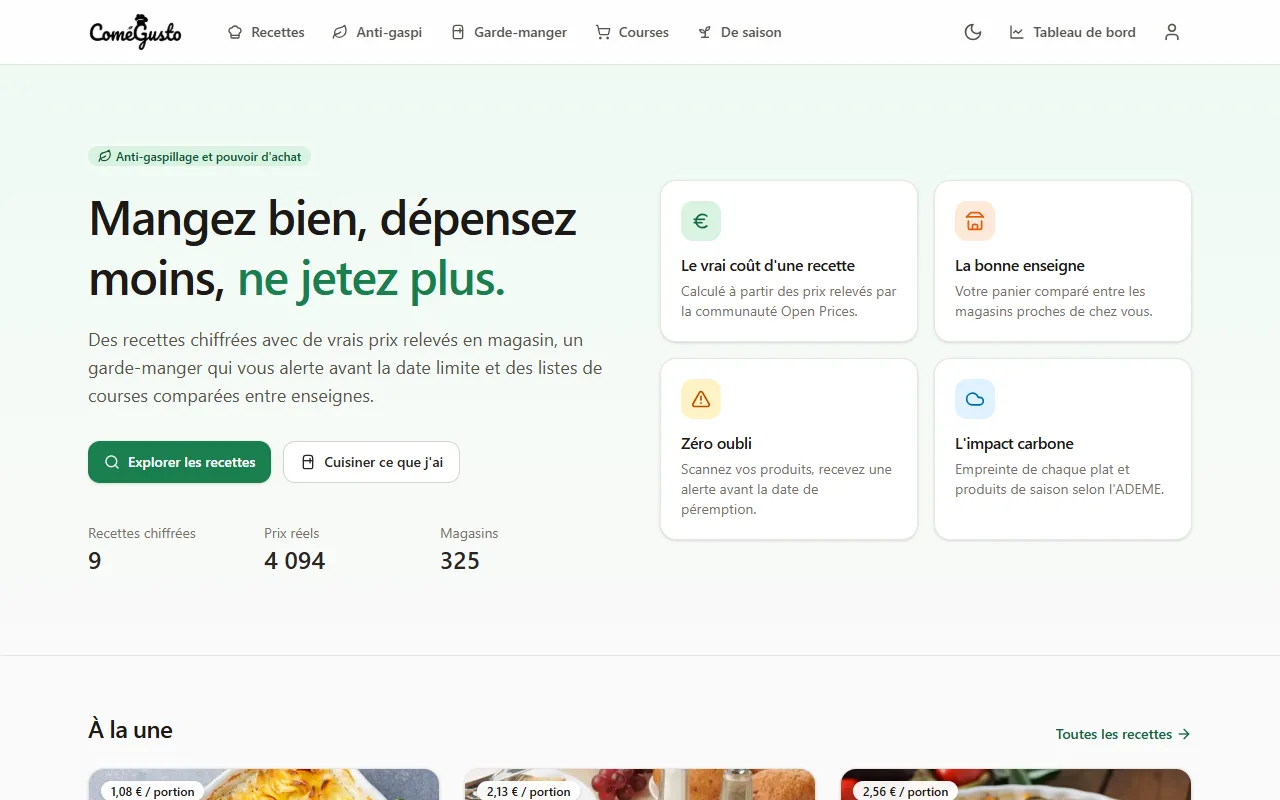
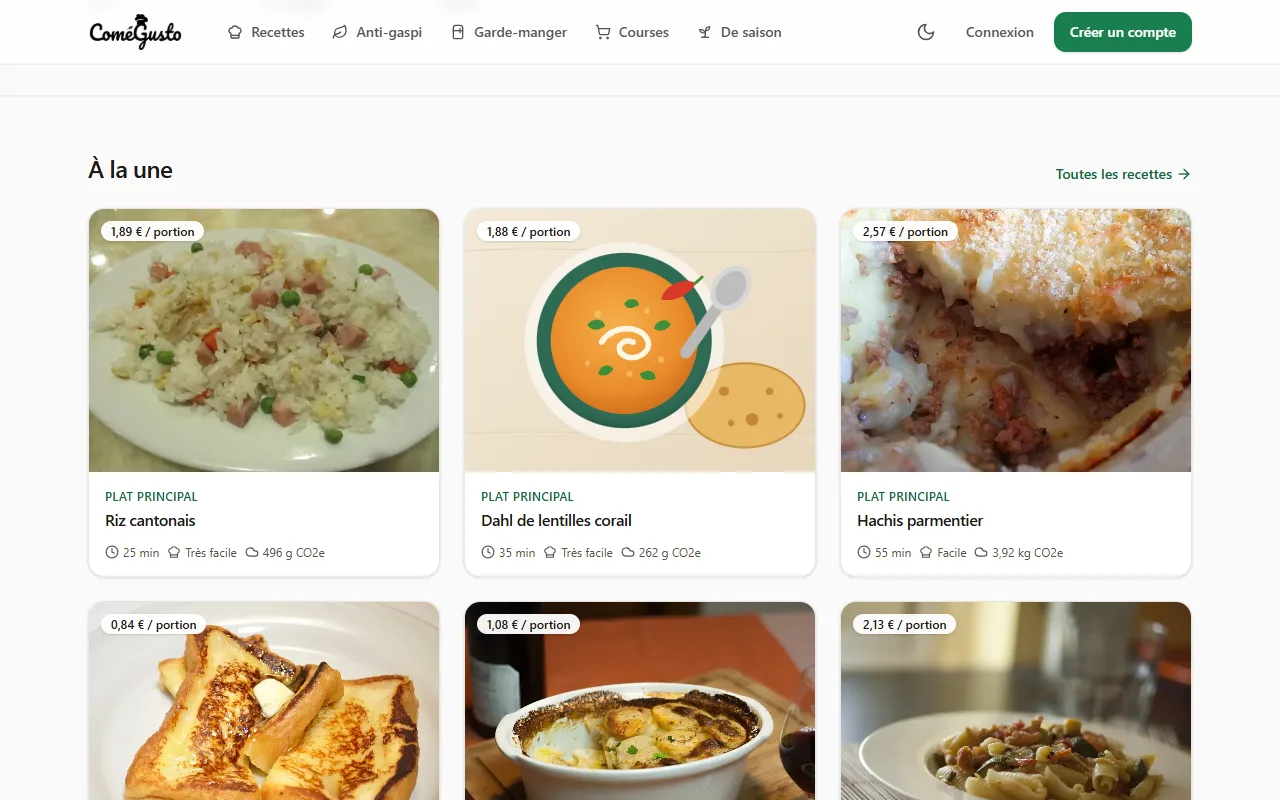
Document deployment and recommended hosts
Refs #16, #17

diff --git a/docs/DEPLOIEMENT.md b/docs/DEPLOIEMENT.md
@@ -1,0 +1,200 @@
+# Déployer Comégusto
+
+Ce guide couvre trois façons de mettre Comégusto en ligne, du gratuit au payant. Toutes reposent sur la même image Docker et les mêmes variables d'environnement.
+
+- [Ce qu'il faut à Comégusto](#ce-quil-faut-à-comégusto)
+- [Quel hébergeur choisir ?](#quel-hébergeur-choisir-)
+- [Option A : un serveur (VPS) avec Docker et Caddy](#option-a--un-serveur-vps-avec-docker-et-caddy)
+- [Option B : une plateforme PaaS](#option-b--une-plateforme-paas)
+- [Médias sur un stockage compatible S3](#médias-sur-un-stockage-compatible-s3)
+- [Tâches planifiées](#tâches-planifiées)
+- [Sauvegardes, mises à jour et supervision](#sauvegardes-mises-à-jour-et-supervision)
+- [Checklist de mise en production](#checklist-de-mise-en-production)
+
+## Ce qu'il faut à Comégusto
+
+| Brique | Rôle | Obligatoire |
+| --- | --- | --- |
+| Application (image Docker, Gunicorn) | Pages, API, administration | oui |
+| PostgreSQL | Données | oui (SQLite seulement pour tester) |
+| Stockage persistant des médias | Photos des recettes ajoutées dans l'administration | oui, disque ou S3 |
+| Accès internet sortant | Open Prices, Open Food Facts, ADEME, IGN | oui |
+| Tâche quotidienne | Synchronisation des prix, rappels de péremption | recommandé |
+| Redis | Cache partagé entre plusieurs processus | facultatif |
+| SMTP | Emails (vérification, rappels, contact) | recommandé |
+
+Une petite instance suffit : 512 Mo de RAM pour l'application, et une base de quelques dizaines de Mo pour les recettes et les prix.
+
+## Quel hébergeur choisir ?
+
+> Offres relevées en octobre 2026. Les conditions des offres gratuites changent souvent : vérifiez-les sur le site de l'hébergeur avant de vous engager.
+
+### Gratuit
+
+| Combinaison | Pour qui | Points d'attention |
+| --- | --- | --- |
+| **Oracle Cloud Always Free** (VM Arm) + [option A](#option-a--un-serveur-vps-avec-docker-et-caddy) | La solution gratuite la plus complète : tout tourne sur la VM, y compris PostgreSQL et le planificateur | Création de compte avec carte bancaire, capacité Arm parfois indisponible selon la région. L'allocation Always Free varie selon les sources (jusqu'à 4 cœurs et 24 Go, ou moins) : vérifiez la page officielle. |
+| **Render** (web gratuit) + **Neon** (PostgreSQL gratuit) + **Cloudflare R2** (médias) + GitHub Actions (tâches) | Démonstration, petit trafic | L'instance gratuite Render se met en veille après 15 minutes sans visite (réveil d'environ une minute), 750 h par mois, ports SMTP bloqués. Le PostgreSQL gratuit de Render expire après 30 jours, d'où Neon (0,5 Go et 100 heures de calcul par mois sur l'offre gratuite). |
+| **Google Cloud Run** + Neon + R2 + GitHub Actions | Démonstration avec un quota gratuit généreux | Compte de facturation Google obligatoire ; quota mensuel gratuit (180 000 vCPU-secondes, 2 millions de requêtes en facturation à la requête). |
+
+À éviter : **PythonAnywhere gratuit**. L'accès internet sortant y est limité à une liste blanche, ce qui empêche d'interroger les services ouverts.
+
+### Payant
+
+| Hébergeur | Type | Prix indicatif | Pourquoi |
+| --- | --- | --- | --- |
+| **Hetzner Cloud**, **OVHcloud VPS**, **Scaleway Instances** | VPS + [option A](#option-a--un-serveur-vps-avec-docker-et-caddy) | Environ 4 à 10 € par mois | Meilleur rapport qualité-prix, contrôle total, hébergement en Europe. Hetzner a revu ses prix en 2026 et certaines gammes économiques ne sont plus toujours disponibles. |
+| **Clever Cloud** | PaaS français | À l'usage, facturation à la seconde (calculateur sur le site) | Déploiement Docker, PostgreSQL managé avec sauvegardes quotidiennes, hébergement en France. |
+| **Scalingo** | PaaS français | PostgreSQL Starter à partir de 7,20 € HT par mois, essai gratuit de 30 jours | Simple, hébergement en France, option SecNumCloud. |
+| **Railway** | PaaS | Offre Hobby à 5 $ par mois, incluant 5 $ de consommation | Très simple, déjà utilisé par l'ancienne version du projet. |
+| **Render** (instances payantes) | PaaS | À partir de quelques dollars par mois | Supprime la mise en veille et les limites de l'offre gratuite. |
+| **Koyeb** | PaaS | Offre Pro à 29 $ par mois, incluant 10 $ de consommation | Racheté par Mistral AI en 2026, le service continue. |
+
+**Notre recommandation** : un petit VPS européen avec l'option A (environ 5 € par mois, tout compris). Pour un projet de démonstration sans budget : Oracle Cloud Always Free avec la même option A, ou Render + Neon + R2.
+
+## Option A : un serveur (VPS) avec Docker et Caddy
+
+Tout tourne sur une seule machine : application, PostgreSQL, Redis, planificateur et [Caddy](https://caddyserver.com), qui obtient et renouvelle automatiquement le certificat HTTPS et sert les médias.
+
+### 1. Préparer le serveur
+
+- Une VM Ubuntu ou Debian récente, 1 Go de RAM minimum (2 Go confortables), architecture x86 ou Arm.
+- Un nom de domaine dont l'enregistrement DNS `A` (et `AAAA` si IPv6) pointe vers l'IP du serveur.
+- Les ports 80 et 443 ouverts (pare-feu du serveur et, chez Oracle ou Scaleway, groupe de sécurité).
+
+```bash
+curl -fsSL https://get.docker.com | sh
+sudo usermod -aG docker $USER   # puis se reconnecter
+```
+
+### 2. Récupérer le projet et le configurer
+
+```bash
+git clone https://github.com/Aziguy/reaco_updated.git comegusto && cd comegusto
+cp .env.example .env
+```
+
+Dans `.env`, au minimum :
+
+```ini
+DEBUG=false
+DOMAIN=comegusto.example.org
+SECRET_KEY=une-longue-chaine-aleatoire
+POSTGRES_PASSWORD=un-mot-de-passe-solide
+EMAIL_URL=smtp+tls://utilisateur:motdepasse@smtp.example.org:587
+DEFAULT_FROM_EMAIL=Comégusto <bonjour@example.org>
+CONTACT_EMAIL=contact@example.org
+ADMIN_URL=gestion-8f3k/
+```
+
+Pour générer une clé secrète : `python3 -c "import secrets; print(secrets.token_urlsafe(50))"`.
+
+### 3. Lancer
+
+```bash
+docker compose -f docker-compose.yml -f docker-compose.prod.yml up -d --build
+docker compose exec web python manage.py createsuperuser
+docker compose exec web python manage.py seed_demo
+docker compose exec web python manage.py sync_prices
+```
+
+Le site est disponible sur `https://DOMAIN` après quelques secondes (le temps d'obtenir le certificat). Les migrations sont appliquées automatiquement au démarrage, et le service `scheduler` lance la synchronisation des prix et les rappels une fois par jour.
+
+### 4. Mettre à jour
+
+```bash
+git pull
+docker compose -f docker-compose.yml -f docker-compose.prod.yml up -d --build
+```
+
+## Option B : une plateforme PaaS
+
+Le principe est le même sur Render, Railway, Clever Cloud, Scalingo, Koyeb ou Cloud Run : la plateforme construit l'image à partir du `Dockerfile` et l'exécute.
+
+1. **Base de données** : créez un PostgreSQL (celui de la plateforme ou Neon) et récupérez son URL de connexion.
+2. **Médias** : sur la plupart des PaaS, le disque est effacé à chaque déploiement. Configurez un [stockage S3](#médias-sur-un-stockage-compatible-s3).
+3. **Service web** : créez un service à partir du dépôt GitHub, de type Docker, port `8000`, chemin de vérification de santé `/health/`.
+4. **Variables d'environnement** :
+
+   | Variable | Valeur |
+   | --- | --- |
+   | `SECRET_KEY` | chaîne aléatoire longue |
+   | `ALLOWED_HOSTS` | `comegusto.onrender.com,comegusto.example.org` |
+   | `CSRF_TRUSTED_ORIGINS` | `https://comegusto.example.org` |
+   | `DATABASE_URL` | URL PostgreSQL (ajoutez `?sslmode=require` pour Neon) |
+   | `AWS_*` | voir la section S3 |
+   | `EMAIL_URL`, `DEFAULT_FROM_EMAIL`, `CONTACT_EMAIL` | votre SMTP |
+   | `REDIS_URL` | facultatif |
+
+5. **Premier lancement** : depuis le shell de la plateforme, exécutez `python manage.py createsuperuser`, `seed_demo` puis `sync_prices`. Sans shell disponible, lancez ces commandes depuis votre poste avec la même `DATABASE_URL`.
+6. **Tâches quotidiennes** : utilisez les tâches cron de la plateforme si elles existent, sinon le [workflow GitHub fourni](#tâches-planifiées).
+
+Particularités :
+
+- **Render gratuit** : mise en veille après 15 minutes d'inactivité et SMTP bloqué. Pour les emails, passez à une instance payante.
+- **Clever Cloud et Scalingo** : choisissez le déploiement Docker et ajoutez l'extension PostgreSQL ; l'URL de la base est fournie dans une variable que vous recopiez dans `DATABASE_URL`.
+- **Cloud Run** : l'image se construit avec Cloud Build ou depuis GitHub. Définissez le port `8000` et une instance minimale à `0` pour rester dans le quota gratuit.
+
+## Médias sur un stockage compatible S3
+
+Les photos ajoutées depuis l'administration sont stockées dans `MEDIA_ROOT`. Sur un hébergeur sans disque persistant, activez un stockage objet en renseignant :
+
+```ini
+AWS_STORAGE_BUCKET_NAME=comegusto-media
+AWS_ACCESS_KEY_ID=...
+AWS_SECRET_ACCESS_KEY=...
+AWS_S3_ENDPOINT_URL=https://<compte>.r2.cloudflarestorage.com   # vide pour AWS S3
+AWS_S3_REGION_NAME=auto                                         # selon le fournisseur
+AWS_S3_CUSTOM_DOMAIN=media.example.org                          # facultatif, bucket public
+```
+
+- Sans domaine personnalisé, les images sont servies par des URL signées ; avec un domaine public, par des URL directes mises en cache.
+- Le domaine des médias est ajouté automatiquement à la Content Security Policy.
+- **Cloudflare R2** propose 10 Go gratuits et ne facture pas la bande passante sortante. Scaleway Object Storage et Backblaze B2 sont d'autres options européennes ou peu coûteuses.
+
+## Tâches planifiées
+
+| Hébergement | Solution |
+| --- | --- |
+| Option A (Docker Compose) | Le service `scheduler` s'en charge (intervalle réglable avec `SCHEDULER_INTERVAL`, en secondes). |
+| PaaS avec cron | Planifiez `python manage.py sync_prices --pages 2` et `python manage.py send_expiry_reminders --base-url https://DOMAIN` chaque jour. |
+| PaaS sans cron gratuit | Le workflow `.github/workflows/scheduled.yml` exécute ces commandes chaque nuit depuis GitHub Actions. Ajoutez dans les secrets du dépôt `DATABASE_URL` et `SECRET_KEY` (et `EMAIL_URL`, `SITE_URL` pour les rappels). Sans secret, le workflow ne fait rien. |
+
+## Sauvegardes, mises à jour et supervision
+
+- **Base de données (option A)** : une sauvegarde quotidienne par cron sur l'hôte, à copier hors du serveur :
+
+  ```bash
+  docker compose exec -T db pg_dump -U comegusto comegusto | gzip > backup-$(date +%F).sql.gz
+  ```
+
+  Restauration : `gunzip -c backup.sql.gz | docker compose exec -T db psql -U comegusto comegusto`.
+- **Médias (option A)** : sauvegardez le volume Docker `media`.
+- **PaaS** : activez les sauvegardes de la base proposées par la plateforme (souvent absentes des offres gratuites).
+- **Supervision** : `/health/` renvoie `{"status": "ok"}` quand l'application et la base répondent. Branchez-y un service de surveillance (UptimeRobot, Better Stack, ou celui de la plateforme).
+- **Journaux** : `docker compose logs -f web scheduler`.
+
+## Checklist de mise en production
+
+- [ ] `DEBUG=false` et `SECRET_KEY` unique, jamais commitée.
+- [ ] `ALLOWED_HOSTS` et `CSRF_TRUSTED_ORIGINS` limités à vos domaines.
+- [ ] HTTPS actif (Caddy ou plateforme), `SECURE_SSL_REDIRECT` et cookies sécurisés laissés à leur valeur par défaut.
+- [ ] `ADMIN_URL` personnalisée et mot de passe administrateur robuste.
+- [ ] SMTP configuré et `ACCOUNT_EMAIL_VERIFICATION=mandatory` si l'inscription est ouverte au public.
+- [ ] Médias persistants (volume ou S3) et sauvegardes de la base.
+- [ ] `python manage.py check --deploy` sans avertissement.
+- [ ] Tâche quotidienne de synchronisation des prix en place.
+
+## Sources des offres
+
+- Render : [offre gratuite](https://render.com/docs/free)
+- Koyeb : [FAQ tarifaire](https://www.koyeb.com/docs/faqs/pricing)
+- Railway : [offres](https://docs.railway.com/pricing/plans)
+- Neon : [tarifs](https://neon.com/pricing)
+- Google Cloud Run : [tarifs](https://cloud.google.com/run/pricing)
+- Oracle Cloud : [Always Free](https://docs.oracle.com/iaas/Content/FreeTier/freetier.htm)
+- Cloudflare R2 : [tarifs](https://developers.cloudflare.com/r2/pricing/)
+- Clever Cloud : [tarifs](https://www.clever.cloud/pricing)
+- Scalingo : [PostgreSQL](https://scalingo.com/databases/postgresql)
+- Hetzner : [hausse de prix de juin 2026](https://privatedevops.com/news/hetzner-june-2026-cloud-price-increase-what-to-do)
+- PythonAnywhere : [fonctionnalités des comptes gratuits](https://help.pythonanywhere.com/pages/FreeAccountsFeatures/)

diff --git a/README.md b/README.md
@@ -32,6 +32,7 @@ Chaque Français jette en moyenne une trentaine de kilos de nourriture par an, p
 ## Fonctionnalités
 
 **Recettes**
+- 31 recettes de démonstration, économiques et anti-gaspi (pain perdu, hachis parmentier, riz cantonais, banana bread…), illustrées par des photos sous licence libre.
 - Recherche et filtres instantanés (type de plat, régime, difficulté, temps, tri par prix ou par CO2).
 - Ajustement des portions, quantités recalculées à la volée.
 - Coût par portion calculé à partir de prix réels, détail par ingrédient.
@@ -87,6 +88,21 @@ L'application est disponible sur <http://localhost:8000>, l'administration sur `
 
 La pile comprend PostgreSQL, Redis, l'application (Gunicorn + WhiteNoise) et un planificateur qui synchronise les prix et envoie les rappels une fois par jour.
 
+## Déploiement
+
+Le guide [docs/DEPLOIEMENT.md](docs/DEPLOIEMENT.md) détaille :
+
+- un comparatif des hébergeurs **gratuits** (Oracle Cloud Always Free, Render + Neon, Cloud Run) et **payants** (VPS Hetzner, OVHcloud ou Scaleway, Clever Cloud, Scalingo, Railway…) ;
+- le déploiement sur un VPS avec `docker-compose.prod.yml` et Caddy (HTTPS automatique, médias servis par Caddy) ;
+- le déploiement sur une plateforme PaaS, le stockage S3 des médias, les tâches planifiées (y compris via GitHub Actions), les sauvegardes et une checklist de mise en production.
+
+En résumé, sur un serveur avec un nom de domaine :
+
+```bash
+cp .env.example .env   # DOMAIN, SECRET_KEY, POSTGRES_PASSWORD, EMAIL_URL...
+docker compose -f docker-compose.yml -f docker-compose.prod.yml up -d --build
+```
+
 ## Développement local
 
 Prérequis : [uv](https://docs.astral.sh/uv/) et Node.js 20+.
@@ -107,7 +123,7 @@ Pendant le développement, `npm run dev` recompile les styles à chaque modifica
 
 | Commande | Rôle |
 | --- | --- |
-| `seed_demo` | Charge les 51 ingrédients et 9 recettes de démonstration (idempotent). |
+| `seed_demo [--refresh-images]` | Charge les 83 ingrédients et 31 recettes de démonstration avec leurs photos (idempotent). |
 | `sync_prices [slug ...] [--days N] [--pages N]` | Importe les prix Open Prices puis recalcule les recettes. |
 | `refresh_metrics` | Recalcule coût par portion et empreinte carbone. |
 | `send_expiry_reminders [--days N]` | Envoie les rappels de péremption. |
@@ -132,6 +148,8 @@ Toute la configuration passe par des variables d'environnement (voir `.env.examp
 | `PRICE_COUNTRIES` | `FR` | Pays des magasins retenus. |
 | `PRICE_HISTORY_DAYS` | `365` | Profondeur d'historique des prix. |
 | `ADMIN_URL` | `admin/` | Chemin de l'administration. |
+| `AWS_STORAGE_BUCKET_NAME` et `AWS_*` | vide | Stockage des médias sur un service compatible S3 (R2, Scaleway, B2, S3). |
+| `DOMAIN`, `POSTGRES_PASSWORD` | vide | Utilisés par `docker-compose.prod.yml`. |
 | `SECURE_SSL_REDIRECT`, `SECURE_COOKIES`, `SECURE_HSTS_SECONDS` | actifs hors `DEBUG` | Durcissement HTTPS. |
 
 ## Architecture
@@ -149,7 +167,9 @@ apps/
   api/               API REST (DRF) et schéma OpenAPI
 templates/           gabarits Django (HTMX pour les interactions)
 assets/app.css       source Tailwind CSS v4, compilée vers static/css/app.css
-demo/                données et photos de démonstration
+demo/                recettes de démonstration, photos et crédits (images/credits.json)
+deploy/              configuration Caddy pour la production
+docs/                guide de déploiement, captures
 ```
 
 ```mermaid
@@ -217,4 +237,4 @@ Les contributions sont bienvenues : voir [CONTRIBUTING.md](CONTRIBUTING.md).
 
 ## Licence
 
-Code sous licence [MIT](LICENSE). Les données issues d'Open Food Facts, d'Open Prices et d'OpenStreetMap restent sous licence ODbL, celles de l'ADEME et de l'IGN sous Licence Ouverte 2.0.
+Code sous licence [MIT](LICENSE). Les photos des recettes proviennent de Wikimedia Commons sous licences CC0, CC BY ou CC BY-SA : leurs auteurs et licences sont indiqués sous chaque photo, sur la page `/credits/` et dans `demo/images/credits.json`. Les données issues d'Open Food Facts, d'Open Prices et d'OpenStreetMap restent sous licence ODbL, celles de l'ADEME et de l'IGN sous Licence Ouverte 2.0.

diff --git a/CONTRIBUTING.md b/CONTRIBUTING.md
@@ -25,6 +25,8 @@ uv run python manage.py migrate && uv run python manage.py seed_demo
 
 Ingrédients et recettes se gèrent dans l'administration. Pour qu'un ingrédient soit chiffré, renseignez sa catégorie Open Food Facts (par exemple `en:carrots`, à vérifier sur <https://world.openfoodfacts.org/categories>) et, si possible, son identifiant ADEME Impact CO2. Lancez ensuite `sync_prices <slug>`.
 
+Pour une recette de démonstration (`demo/recipes.json`), utilisez une image sous licence libre (CC0, CC BY, CC BY-SA, par exemple sur Wikimedia Commons), redimensionnée en WebP de 1000 px de large maximum, et ajoutez son auteur, sa licence et sa source dans `demo/images/credits.json`. Sans photo libre satisfaisante, une illustration SVG originale convient aussi.
+
 ## Données ouvertes
 
 Comégusto vit grâce aux contributions de la communauté. Le meilleur moyen d'améliorer les prix est de photographier vos tickets et étiquettes sur [Open Prices](https://prices.openfoodfacts.org).
